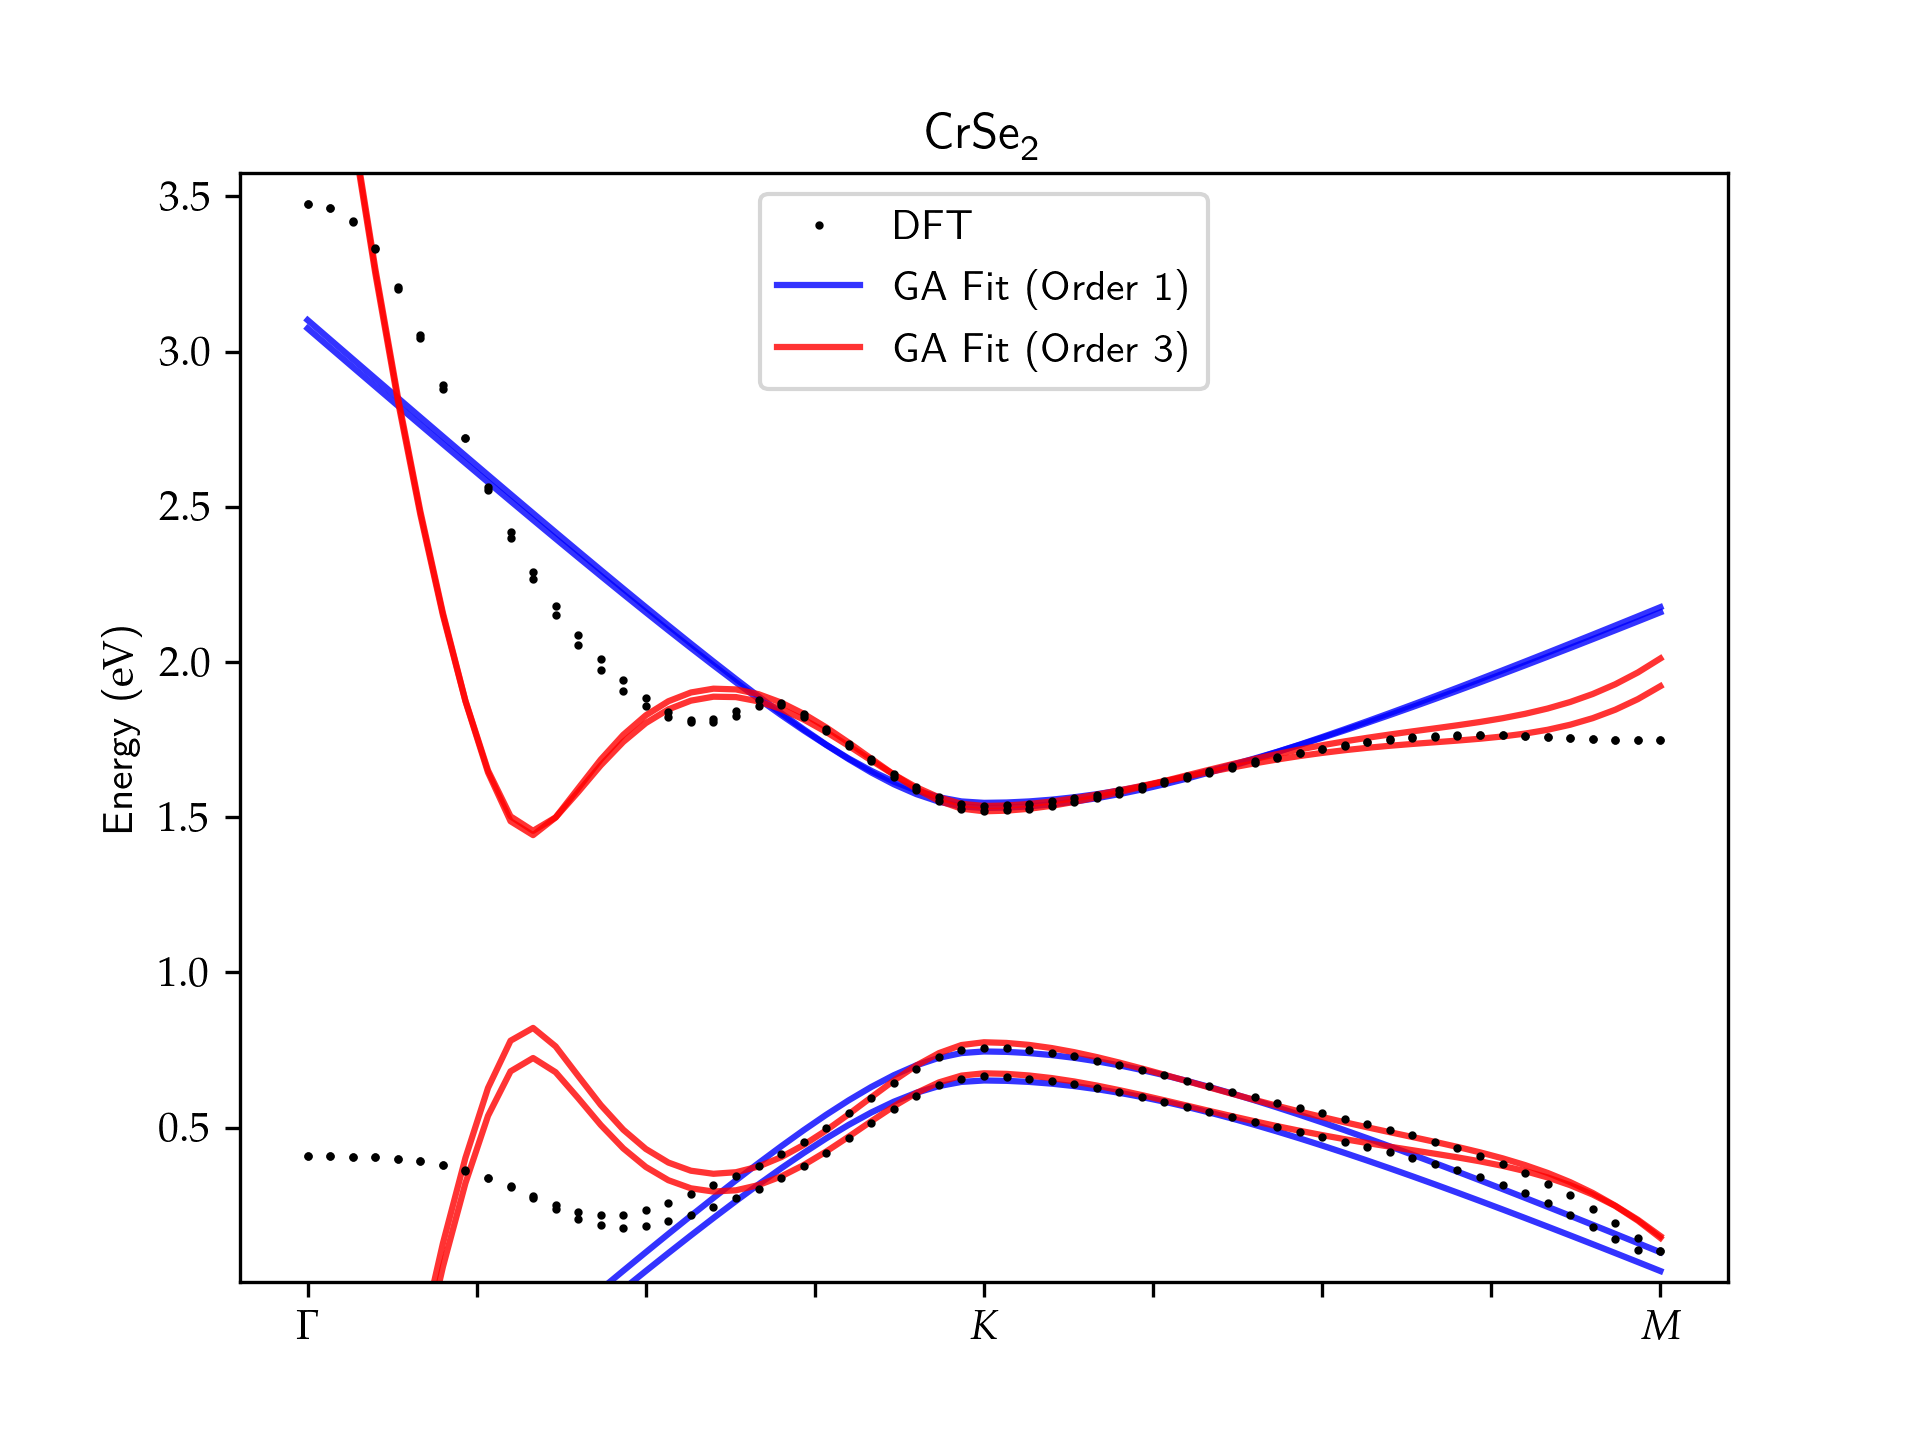
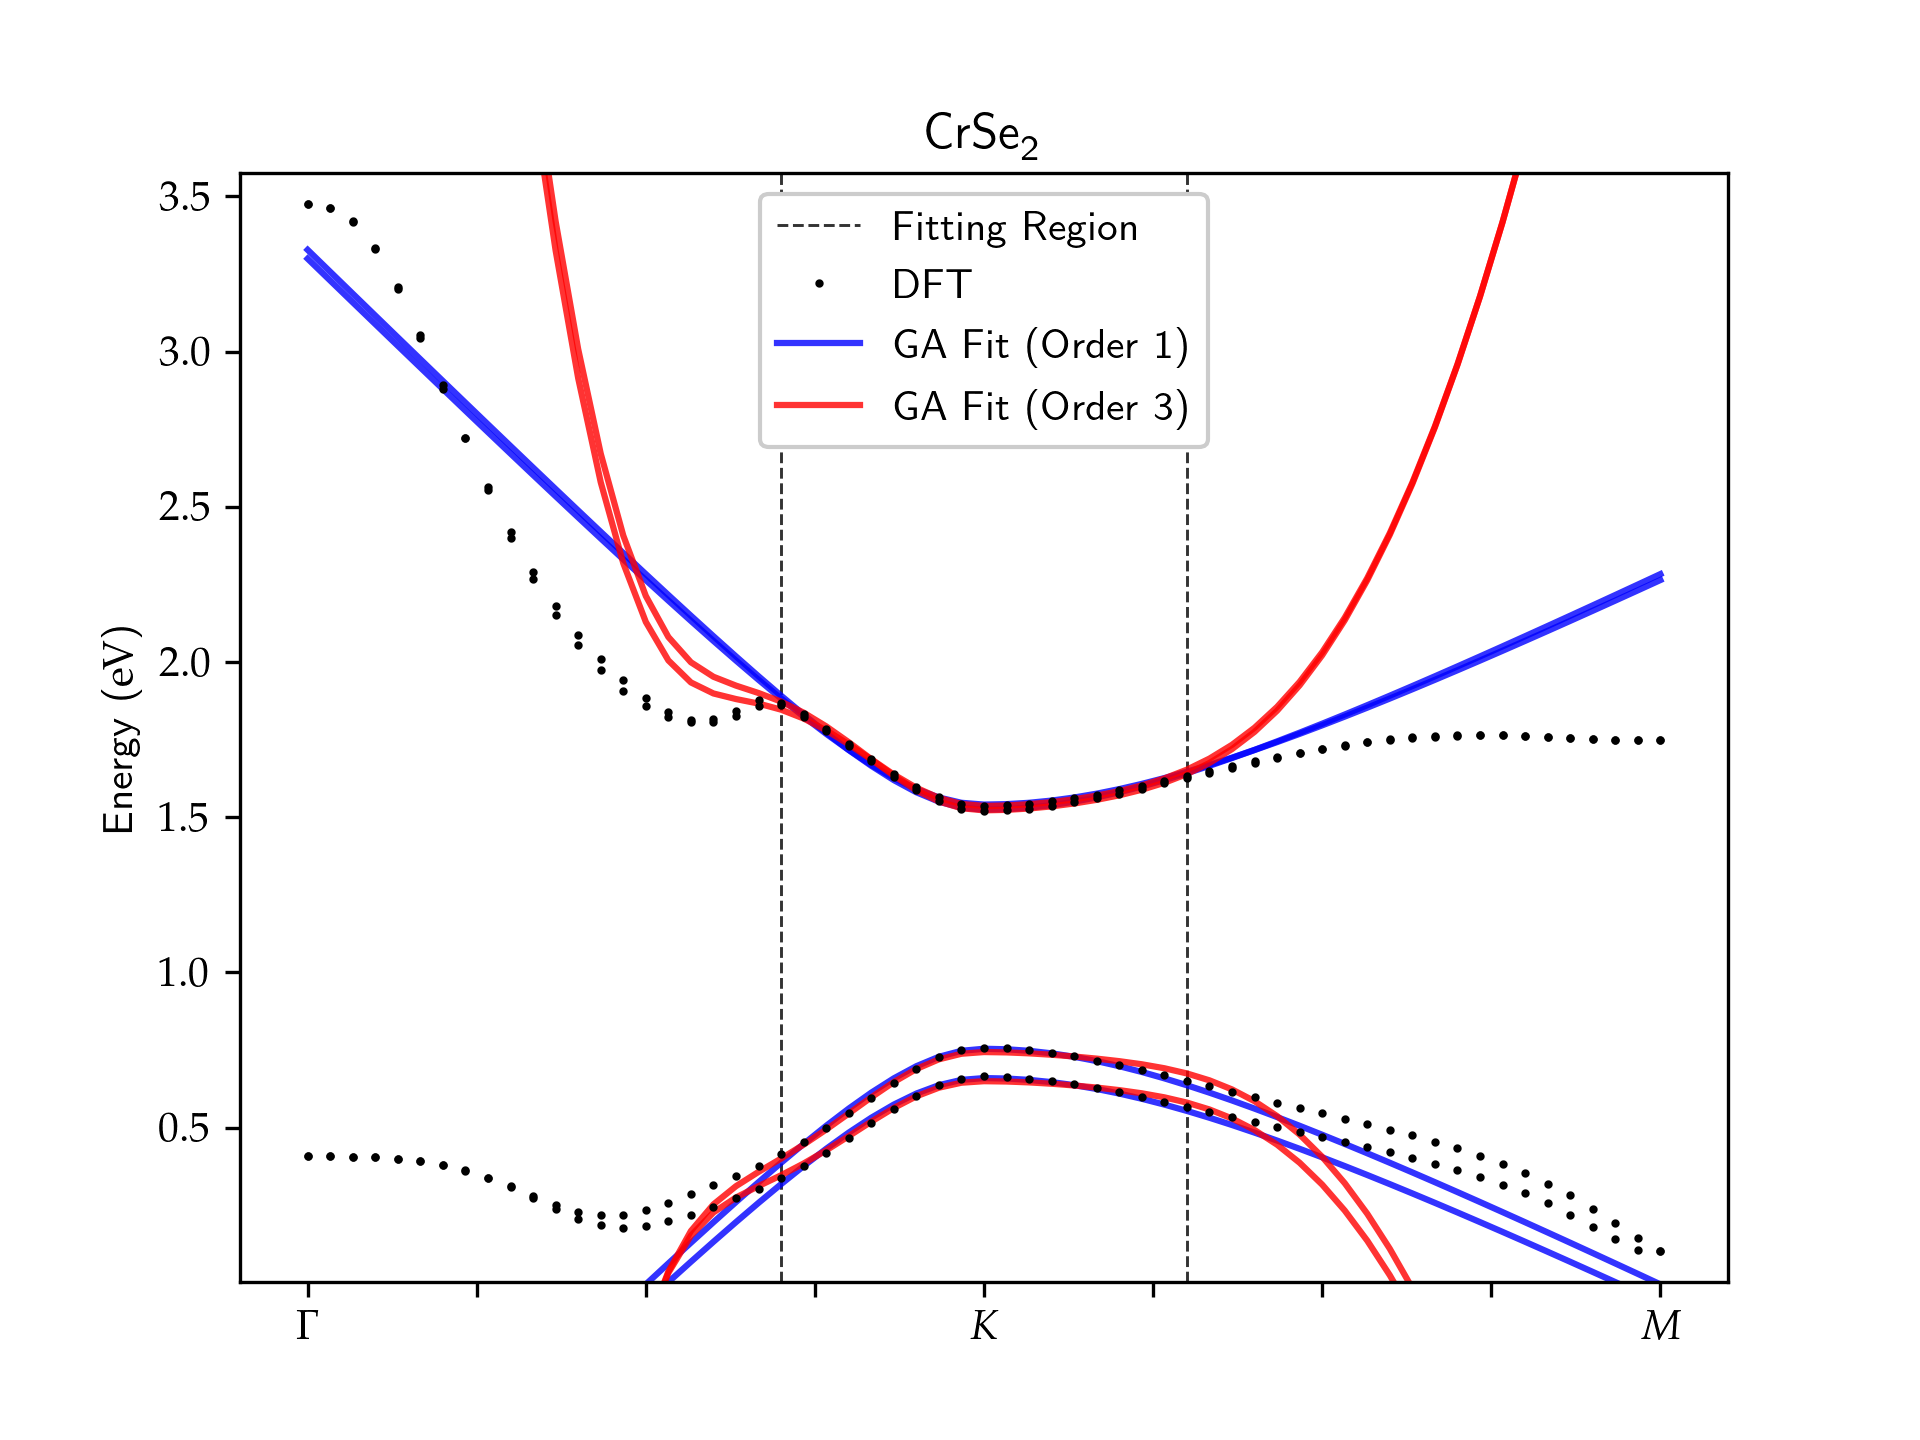
Adding option to control the refinement ratio,  indicating the fitting region on the plots

diff --git a/main.py b/main.py
@@ -25,13 +25,13 @@ from kp_model import (
 )
 
 PROCESSES = mp.cpu_count()
-REFINEMENT_RATIO = 0.1
 THRESHOLD = 1e-5
 
 # Genetic algorithm default properties
 GENS = 100
 POP_SIZE = 500
 MUT_PROB = 0.05
+REFINEMENT_RATIO = 0.1
 
 # Dual annealing default properties
 ITERS = 1000
@@ -124,6 +124,19 @@ def parse_args():
         help=(
             "when using genetic algorithms, the probability of mutation "
             f"per gene in the recombination process. Default is {MUT_PROB}."
+        ),
+    )
+
+    parser.add_argument(
+        "--refine-ratio",
+        type=float,
+        nargs="?",
+        default=REFINEMENT_RATIO,
+        const=REFINEMENT_RATIO,
+        help=(
+            "when using genetic algorithms, the ratio by which the search region "
+            "is shrinked in the second run around the best candidates of minimum. "
+            f"If 0.0, no refinement strategy is used. Default is {REFINEMENT_RATIO}."
         ),
     )
 
@@ -263,6 +276,7 @@ if __name__ == "__main__":
     pop_size = args.pop_size
     gens = args.gens
     mut_prob = args.mut_prob
+    refine_ratio = args.refine_ratio
     iters = args.iters
     temp = args.temp
     no_local_search = args.no_local_search
@@ -320,7 +334,7 @@ if __name__ == "__main__":
         )
 
         # Data subset that will be used in the fitting process
-        lower_fit_bound, upper_fit_bound = get_fitting_region(ks)
+        lower_fit_bound, upper_fit_bound = get_fitting_region(ks, lower=-0.2, upper=0.1)
         fitting_ks = ks[lower_fit_bound:upper_fit_bound, :]
         fitting_energies = sorted_energies[lower_fit_bound:upper_fit_bound, :]
         logger.info(
@@ -400,31 +414,33 @@ if __name__ == "__main__":
 
                 gas = evolve_gas(gas, processes=processes)
 
-                refined_interval_sizes = tuple(
-                    [
-                        REFINEMENT_RATIO * (upper - lower) / 2
-                        for (lower, upper) in suggested_search_region
-                    ]
-                )
-
                 # Evolving gas with refined search regions
-                gas = [
-                    NumericalOptimizationGA(
-                        search_region=search_region,
-                        function=obj_function,
-                        pop_size=pop_size,
-                        elite=elite,
-                        mut_probs=(mut_prob, mut_prob),
+                if refine_ratio != 0.0:
+                    refined_interval_sizes = tuple(
+                        [
+                            refine_ratio * (upper - lower) / 2
+                            for (lower, upper) in suggested_search_region
+                        ]
                     )
-                    for search_region in get_refined_search_regions(gas)
-                ]
 
-                logger.info(
-                    "Restarting process with refined search "
-                    "regions arround the best individuals"
-                )
+                    gas = [
+                        NumericalOptimizationGA(
+                            search_region=search_region,
+                            function=obj_function,
+                            pop_size=pop_size,
+                            elite=elite,
+                            mut_probs=(mut_prob, mut_prob),
+                        )
+                        for search_region in get_refined_search_regions(gas)
+                    ]
 
-                gas = evolve_gas(gas, processes=processes)
+                    logger.info(
+                        "Restarting process with refined search "
+                        "regions arround the best individuals"
+                    )
+
+                    gas = evolve_gas(gas, processes=processes)
+
                 func_values = list(map(get_best_func_value, gas))
                 best_func_value = min(func_values)
                 best_index = func_values.index(best_func_value)
@@ -480,18 +496,31 @@ if __name__ == "__main__":
         fig, ax = plt.subplots()
 
         # Setting up the axes
+        ylim = (
+            np.min(sorted_energies[:, 0]) - Y_MARGIN,
+            np.max(sorted_energies[:, -1]) + Y_MARGIN,
+        )
+
         ax.set(
             title=title,
             ylabel=r"Energy (\si{\eV})",
-            ylim=(
-                np.min(sorted_energies[:, 0]) - Y_MARGIN,
-                np.max(sorted_energies[:, -1]) + Y_MARGIN,
-            ),
+            ylim=ylim,
         )
 
         ax.xaxis.set_major_formatter(plt.FuncFormatter(xtick_label_formatter))
 
         plot_domain = get_plot_domain(ks)
+        ax.vlines(
+            (plot_domain[lower_fit_bound], plot_domain[upper_fit_bound]),
+            *ylim,
+            color="black",
+            alpha=0.8,
+            linestyles="dashed",
+            linewidths=0.7,
+            label="Fitting Region",
+            zorder=-2,
+        )
+
         ax.plot(
             plot_domain,
             sorted_energies,
@@ -517,7 +546,7 @@ if __name__ == "__main__":
         # Removing repeated entries from legend
         handles, labels = ax.get_legend_handles_labels()
         by_label = dict(zip(labels, handles))
-        plt.legend(by_label.values(), by_label.keys(), loc="upper center")
+        plt.legend(by_label.values(), by_label.keys(), framealpha=1.0)
 
         # Basename to save the image and the csv file
         joined_orders = "".join([str(order) for order in orders])
